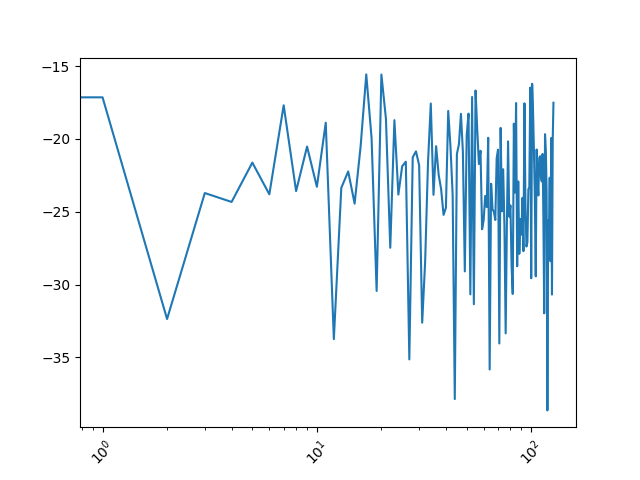
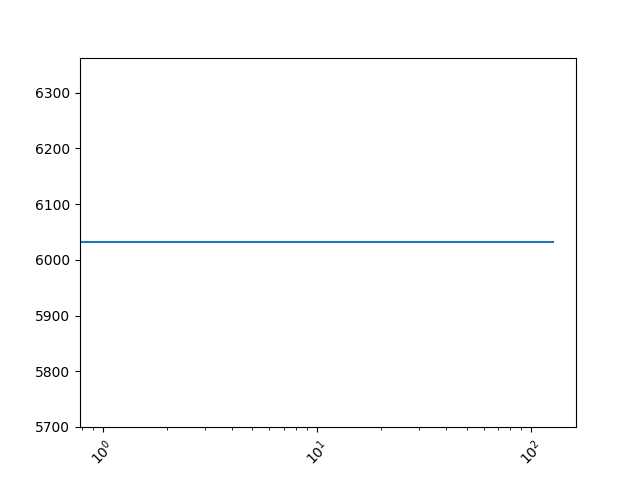
plotting filters

diff --git a/plotfilters.py b/plotfilters.py
@@ -14,73 +14,74 @@ fs = 48000  # 48 kHz
 
 plt.figure(figsize=(15, 10))
 
-# Low-pass at 10 kHz
-sos = butter(2, 10000, btype='low', fs=fs, output='sos')
-plot_frequency_response(sos, fs, 'Low-pass at 10 kHz')
+# # Low-pass at 10 kHz
+# sos = butter(2, 10000, btype='low', fs=fs, output='sos')
+# plot_frequency_response(sos, fs, 'Low-pass at 10 kHz')
 
-# Low-pass at 6 kHz
-sos = butter(2, 6000, btype='low', fs=fs, output='sos')
-plot_frequency_response(sos, fs, 'Low-pass at 6 kHz')
+# # Low-pass at 6 kHz
+# sos = butter(2, 6000, btype='low', fs=fs, output='sos')
+# plot_frequency_response(sos, fs, 'Low-pass at 6 kHz')
 
-# High-pass at 2 kHz
-sos = butter(2, 2000, btype='high', fs=fs, output='sos')
-plot_frequency_response(sos, fs, 'High-pass at 2 kHz')
+# # High-pass at 2 kHz
+# sos = butter(2, 2000, btype='high', fs=fs, output='sos')
+# plot_frequency_response(sos, fs, 'High-pass at 2 kHz')
 
 # High-pass at 1 kHz
 sos = butter(2, 1000, btype='high', fs=fs, output='sos')
 plot_frequency_response(sos, fs, 'High-pass at 1 kHz')
 
-# Low-Shelf of +12 dB at 5 kHz
-f = biquad.lowshelf(sr=fs, f=5000, g=12)
-impulse_time = np.zeros(fs)
-impulse_time[0] = 1.0
-filtered_time = f(impulse_time)
-filtered_freq = np.fft.fft(filtered_time)
-plt.plot(20 * np.log10(np.abs(filtered_freq[:fs//2])), label="Low-Shelf -12 dB at 5 kHz")
+# # Low-Shelf of +12 dB at 5 kHz
+# f = biquad.lowshelf(sr=fs, f=5000, g=12)
+# impulse_time = np.zeros(fs)
+# impulse_time[0] = 1.0
+# filtered_time = f(impulse_time)
+# filtered_freq = np.fft.fft(filtered_time)
+# plt.plot(20 * np.log10(np.abs(filtered_freq[:fs//2])), label="Low-Shelf -12 dB at 5 kHz")
 
-# # Low-Shelf of -12 dB at 5 kHz
-f = biquad.lowshelf(sr=fs, f=5000, g=-12)
-impulse_time = np.zeros(fs)
-impulse_time[0] = 1.0
-filtered_time = f(impulse_time)
-filtered_freq = np.fft.fft(filtered_time)
-plt.plot(20 * np.log10(np.abs(filtered_freq[:fs//2])), label="Low-Shelf +12 dB at 5 kHz")
+# # # Low-Shelf of -12 dB at 5 kHz
+# f = biquad.lowshelf(sr=fs, f=5000, g=-12)
+# impulse_time = np.zeros(fs)
+# impulse_time[0] = 1.0
+# filtered_time = f(impulse_time)
+# filtered_freq = np.fft.fft(filtered_time)
+# plt.plot(20 * np.log10(np.abs(filtered_freq[:fs//2])), label="Low-Shelf +12 dB at 5 kHz")
 
-# High-Shelf of +12 dB at 5 kHz
-f = biquad.highshelf(sr=fs, f=5000, g=12)
-impulse_time = np.zeros(fs)
-impulse_time[0] = 1.0
-filtered_time = f(impulse_time)
-filtered_freq = np.fft.fft(filtered_time)
-plt.plot(20 * np.log10(np.abs(filtered_freq[:fs//2])), label="High-Shelf +12 dB at 5 kHz")
+# # High-Shelf of +12 dB at 5 kHz
+# f = biquad.highshelf(sr=fs, f=5000, g=12)
+# impulse_time = np.zeros(fs)
+# impulse_time[0] = 1.0
+# filtered_time = f(impulse_time)
+# filtered_freq = np.fft.fft(filtered_time)
+# plt.plot(20 * np.log10(np.abs(filtered_freq[:fs//2])), label="High-Shelf +12 dB at 5 kHz")
 
-# High-Shelf of -12 dB at 5 kHz
-f = biquad.highshelf(sr=fs, f=5000, g=-12)
-impulse_time = np.zeros(fs)
-impulse_time[0] = 1.0
-filtered_time = f(impulse_time)
-filtered_freq = np.fft.fft(filtered_time)
-plt.plot(20 * np.log10(np.abs(filtered_freq[:fs//2])), label="High-Shelf -12 dB at 5 kHz")
+# # High-Shelf of -12 dB at 5 kHz
+# f = biquad.highshelf(sr=fs, f=5000, g=-12)
+# impulse_time = np.zeros(fs)
+# impulse_time[0] = 1.0
+# filtered_time = f(impulse_time)
+# filtered_freq = np.fft.fft(filtered_time)
+# plt.plot(20 * np.log10(np.abs(filtered_freq[:fs//2])), label="High-Shelf -12 dB at 5 kHz")
 
-# Band-pass from 1 to 10 kHz
-sos = butter(2, [1000, 10000], btype='band', fs=fs, output='sos')
-plot_frequency_response(sos, fs, 'Band-pass from 1 to 10 kHz')
+# # Band-pass from 1 to 10 kHz
+# sos = butter(2, [1000, 10000], btype='band', fs=fs, output='sos')
+# plot_frequency_response(sos, fs, 'Band-pass from 1 to 10 kHz')
 
-# Band-pass from 2 to 6 kHz
-sos = butter(2, [2000, 6000], btype='band', fs=fs, output='sos')
-plot_frequency_response(sos, fs, 'Band-pass from 2 to 6 kHz')
+# # Band-pass from 2 to 6 kHz
+# sos = butter(2, [2000, 6000], btype='band', fs=fs, output='sos')
+# plot_frequency_response(sos, fs, 'Band-pass from 2 to 6 kHz')
 
-# Band-stop from 5 to 10 kHz
-sos = butter(2, [5000, 10000], btype='bandstop', fs=fs, output='sos')
-plot_frequency_response(sos, fs, 'Band-stop from 5 to 10 kHz')
+# # Band-stop from 5 to 10 kHz
+# sos = butter(2, [5000, 10000], btype='bandstop', fs=fs, output='sos')
+# plot_frequency_response(sos, fs, 'Band-stop from 5 to 10 kHz')
 
-# Band-stop from 10 to 15 kHz
-sos = butter(2, [10000, 15000], btype='bandstop', fs=fs, output='sos')
-plot_frequency_response(sos, fs, 'Band-stop from 10 to 15 kHz')
+# # Band-stop from 10 to 15 kHz
+# sos = butter(2, [10000, 15000], btype='bandstop', fs=fs, output='sos')
+# plot_frequency_response(sos, fs, 'Band-stop from 10 to 15 kHz')
 
 # Finalizing the plot
-plt.title('Frequency Responses of Various Filters (2nd Order IIR Filters)')
+plt.title('Frequency Responses of Highpass Filter at 1kHz')
 plt.xlabel('Frequency (Hz)')
+plt.xscale("log")
 plt.ylabel('Gain (dB)')
 plt.ylim([-50, 20])
 
@@ -89,4 +90,5 @@ plt.xlim(20, 20000)  # Optional: Set x-axis limits
 
 plt.legend()
 plt.grid(True)
+plt.savefig("plot2")
 plt.show()

diff --git a/plot.py b/plot.py
@@ -18,39 +18,43 @@ from model.dataset import filter_array
 PI_4 = np.pi / 4
 
 
-# def plot_filter(filter:callable, length, label, cutoff, type, filterclass="IIR", gain=-12):
+def plot_filter(filter:callable, length, label, cutoff, type, filterclass="IIR", gain=-12):
     
-#     impulse_time = np.zeros(length)
-#     impulse_time[0] = 1.0
+    impulse_time = np.zeros(length*2)
+    impulse_time[0] = 1.0
     
-#     filtered_time = filter(impulse_time, cutoff=cutoff, type=type, gain=gain)
-#     filtered_freq = scipy.fft.fft(filtered_time)
-#     filtered_freq = np.abs(filtered_freq)[length:]
-#     # Plot the impulse signal
-#     plt.plot(np.arange(length), filtered_freq, label=label)  # use_line_collection=True is for performance improvement
+    filtered_time = filter(impulse_time, cutoff=cutoff, type=type, filterclass=filterclass, gain=gain)
+    filtered_freq = scipy.fft.fft(filtered_time)
+    print(length, len(filtered_freq))
+    filtered_freq = np.abs(filtered_freq)[length:]
+    # Plot the impulse signal
+    plt.plot(np.arange(length), filtered_freq, label=label)  # use_line_collection=True is for performance improvement
 
 
-# def plot_filters():
-#     length = 128
-#     filters = [
-#         ("lowpass 10k","lowpass", 10000),
-#         ("lowpass 6k", "lowpass", 6000),
-#         ("highpass 2k","highpass", 2000),
-#         ("highpass 1k", "highpass", 1000),
-#         ("lowshelf 5k +12dB", "lowshelf", 5000, 12.0),
-#         ("lowshelf 5k -12dB", "lowshelf", 5000, -12.0),
-#         ("highshelf 5k +12dB", "highshelf", 5000, 12.0),
-#         ("highshelf 5k -12dB", "highshelf", 5000, -12.0),
-#     ]
+def plot_filters():
+    length = 128
+    filters = [
+        ("lowpass 10k","lowpass", 10000),
+        ("lowpass 6k", "lowpass", 6000),
+        ("highpass 2k","highpass", 2000),
+        ("highpass 1k", "highpass", 1000),
+        ("lowshelf 5k +12dB", "lowshelf", 5000, 12.0),
+        ("lowshelf 5k -12dB", "lowshelf", 5000, -12.0),
+        ("highshelf 5k +12dB", "highshelf", 5000, 12.0),
+        ("highshelf 5k -12dB", "highshelf", 5000, -12.0),
+    ]
+    filters = [
+        ("highpass 6k", "highpass", 6000, -12.0),
+    ]
 
-#     plt.title('Filter Frequency Response')
-#     plt.xlabel('Time')
-#     plt.ylabel('Amplitude')
-#     plt.grid(True)
+    plt.title('Filter Frequency Response')
+    plt.xlabel('Frequency')
+    plt.ylabel('Amplitude')
+    plt.grid(True)
 
-#     for setting in filters:
-#         plot_filter(filter_array, length, setting[0], setting[1], setting[2], filterclass="IIR", gain=setting[3])
-#     plt.show()
+    for setting in filters:
+        plot_filter(filter_array, length, setting[0], setting[2], setting[1], filterclass="IIR", gain=setting[3])
+    plt.show()
 
 def plot_3d_shape(shape, coordinates, shading=None):
     """Plot points from a sphere or a cubed sphere in 3D

diff --git a/analysis.py b/analysis.py
@@ -241,23 +241,22 @@ def plotLocalisation():
 
 
 #make an empty array of size 256
-# array = np.empty(256)
-# noise = noisy_array(array) #applied on time domain
-# # plot_impulse_response(noise)
-# noise_freq = magnitude_fft(noise)
+array = np.empty(256)
+noise = noisy_array(array) #applied on time domain
+# plot_impulse_response(noise)
+noise_freq = magnitude_fft(noise)
 
+frequencies = np.fft.fftfreq(256, 1/config.HRIR_SAMPLERATE)
+x_labels = frequencies
 
-# frequencies = np.fft.fftfreq(256, 1/config.HRIR_SAMPLERATE)
-# x_labels = frequencies
+step = 10
+indices = np.arange(1, len(noise_freq) + 1)  # Indices starting from 1 to avoid log(0)
 
-# step = 10
-# indices = np.arange(1, len(noise_freq) + 1)  # Indices starting from 1 to avoid log(0)
+# Set custom x-axis labels at the chosen indices
+plt.xticks(ticks=indices[::step], labels=[x_labels[i] for i in indices[::step] - 1], rotation=45)
 
-# # Set custom x-axis labels at the chosen indices
-# plt.xticks(ticks=indices[::step], labels=[x_labels[i] for i in indices[::step] - 1], rotation=45)
-
-# # Set the x-axis to a logarithmic scale
-# plt.xscale('log')
-# plt.plot(decibels(noise_freq))
-# plt.savefig("Noise")
-# plt.show()
+# Set the x-axis to a logarithmic scale
+plt.xscale('log')
+plt.plot(decibels(noise_freq))
+plt.savefig("Noise")
+plt.show()

diff --git a/audioprocessing/audio_processing.py b/audioprocessing/audio_processing.py
@@ -447,7 +447,7 @@ def check_signal(data:np.ndarray, input_domain:str, *str):
 def bin_to_hz(bin_number:int) -> float:
     all_freq = scipy.fft.fftfreq(config.NBINS_HRIR, 1/config.HRIR_SAMPLERATE)
     pos_freq = all_freq[all_freq >= 0]
-    return pos_freq[bin_number]
+    return pos_freq[bin_number]*2
 
 def hz_to_bin(frequency:float) -> int:
     all_freq = scipy.fft.fftfreq(config.NBINS_HRIR, 1/config.HRIR_SAMPLERATE)
